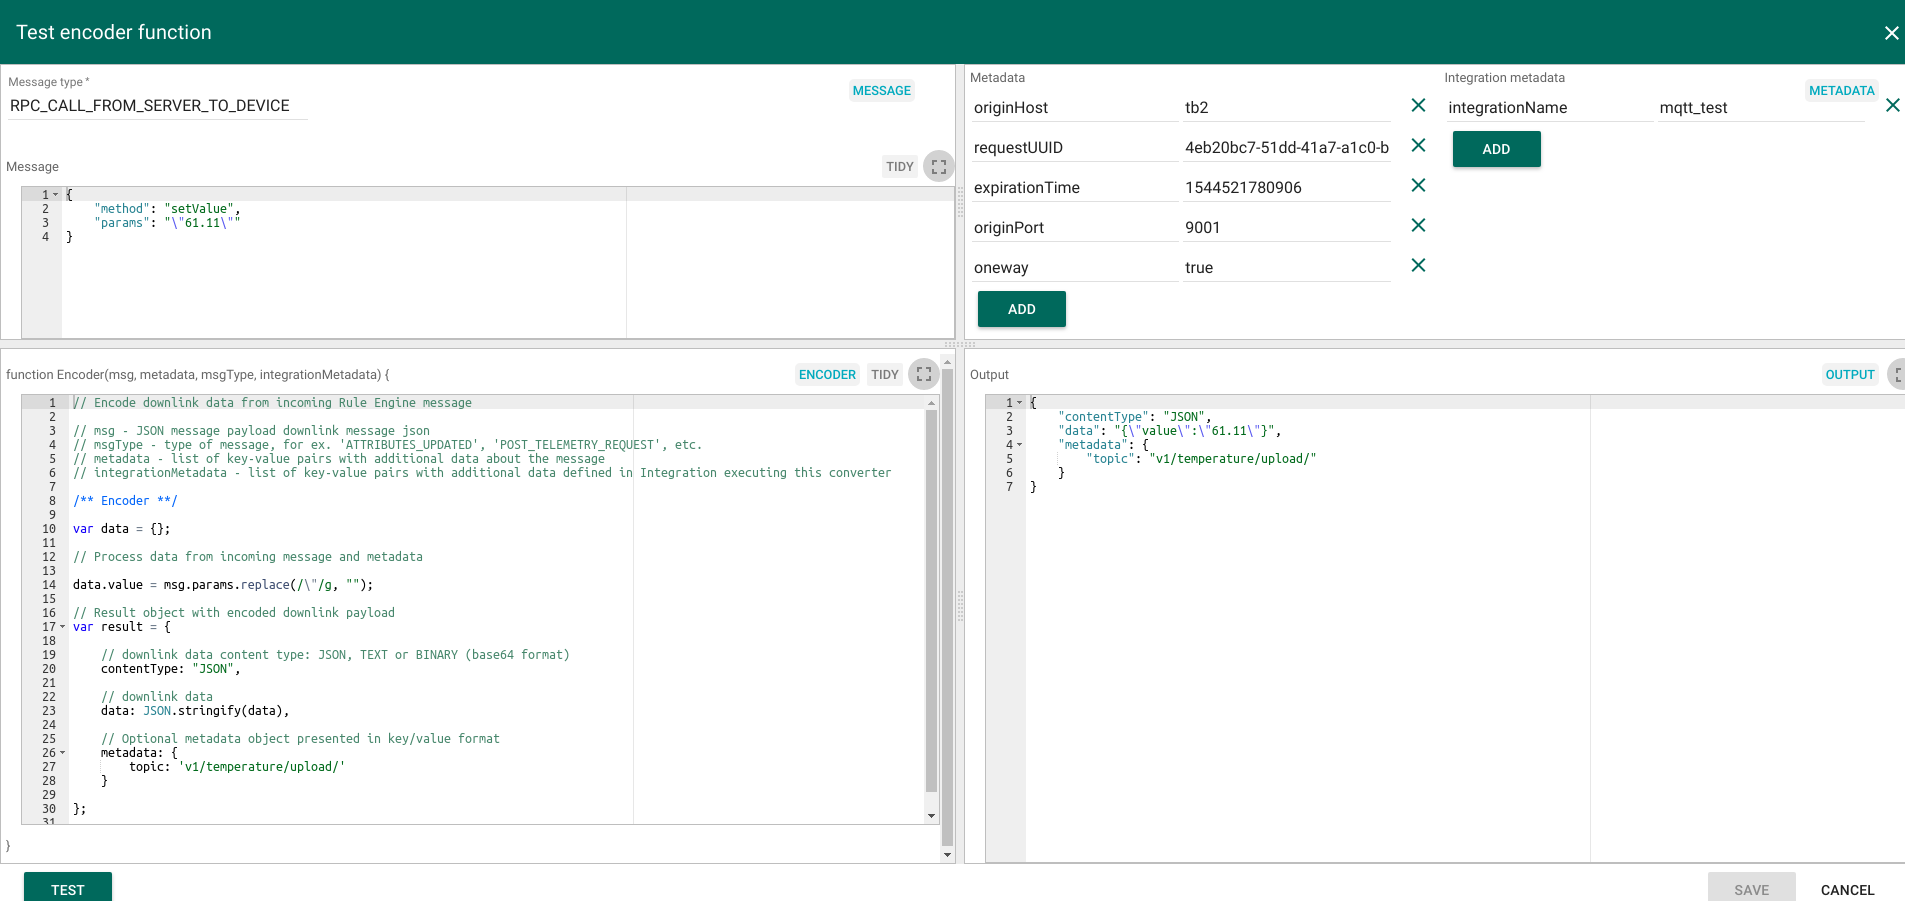
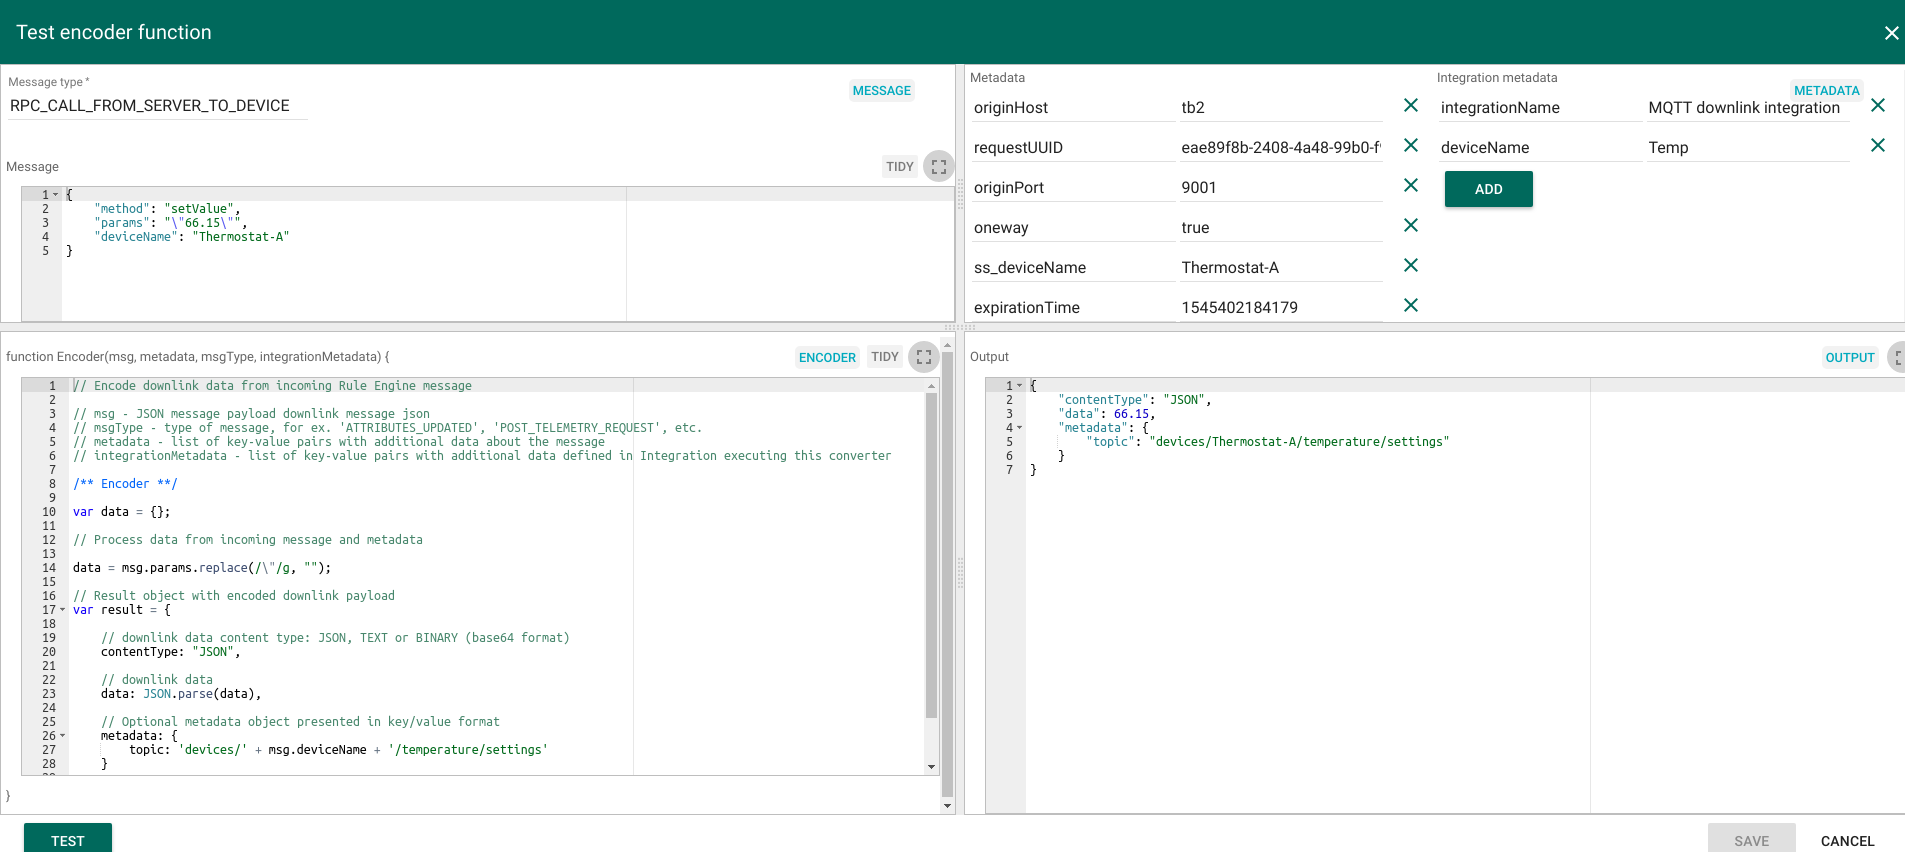
fixed images and converter files

diff --git a/docs/user-guide/resources/mqtt-downlink-downlink-converter.js b/docs/user-guide/resources/mqtt-downlink-downlink-converter.js
@@ -1,32 +1,9 @@
-// Encode downlink data from incoming Rule Engine message
-
-// msg - JSON message payload downlink message json
-// msgType - type of message, for ex. 'ATTRIBUTES_UPDATED', 'POST_TELEMETRY_REQUEST', etc.
-// metadata - list of key-value pairs with additional data about the message
-// integrationMetadata - list of key-value pairs with additional data defined in Integration executing this converter
-
-/** Encoder **/
-
-var data = {};
-
-// Process data from incoming message and metadata
-
-data.value = msg.params.replace(/\"/g, "");
-
-// Result object with encoded downlink payload
-var result = {
-
-    // downlink data content type: JSON, TEXT or BINARY (base64 format)
-    contentType: "JSON",
-
-    // downlink data
-    data: JSON.stringify(data),
-
-    // Optional metadata object presented in key/value format
-    metadata: {
-        topic: 'v1/temperature/upload/'
-    }
-
-};
-
-return result;
+{
+  "name": "Sensor Downlink Converter",
+  "type": "DOWNLINK",
+  "debugMode": true,
+  "configuration": {
+    "encoder": "// Encode downlink data from incoming Rule Engine message\n\n// msg - JSON message payload downlink message json\n// msgType - type of message, for ex. 'ATTRIBUTES_UPDATED', 'POST_TELEMETRY_REQUEST', etc.\n// metadata - list of key-value pairs with additional data about the message\n// integrationMetadata - list of key-value pairs with additional data defined in Integration executing this converter\n\n/** Encoder **/\n\nvar data = {};\n\n// Process data from incoming message and metadata\n\ndata = msg.params.replace(/\\\"/g, \"\");\n\n// Result object with encoded downlink payload\nvar result = {\n\n    // downlink data content type: JSON, TEXT or BINARY (base64 format)\n    contentType: \"JSON\",\n\n    // downlink data\n    data: JSON.parse(data),\n\n    // Optional metadata object presented in key/value format\n    metadata: {\n        topic: 'devices/' + msg.deviceName + '/temperature/settings'\n    }\n\n};\n\nreturn result;"
+  },
+  "additionalInfo": null
+}

diff --git a/docs/user-guide/resources/mqtt-downlink-uplink-converter.js b/docs/user-guide/resources/mqtt-downlink-uplink-converter.js
@@ -1,34 +1,9 @@
-// decode payload to string
-var payloadStr = decodeToString(payload);
-
-var deviceName = 'Device A';
-var deviceType = 'thermostat';
-
-var result = {
-   deviceName: deviceName,
-   deviceType: deviceType,
-   attributes: {
-       model: 'Model A',
-       serialNumber: 'SN111',
-       integrationName: metadata['integrationName']
-   },
-   telemetry: {
-       temperature: 42,
-       rawData: payloadStr
-   }
-};
-
-/** Helper functions **/
-
-function decodeToString(payload) {
-   return String.fromCharCode.apply(String, payload);
+{
+  "name": "Sensor Uplink Converter",
+  "type": "UPLINK",
+  "debugMode": true,
+  "configuration": {
+    "decoder": "// decode payload to string\n//var payloadStr = decodeToString(payload);\nvar payloadJson = decodeToJson(payload);\n\nvar result = {\n    attributes: {\n        integrationName: metadata.integrationName,\n        deviceName: payloadJson.deviceName,\n        deviceType: payloadJson.deviceType,\n    },\n    deviceName: payloadJson.deviceName,\n    deviceType: payloadJson.deviceType,\n    telemetry: []\n};\nvar telemetryObj = {\n    ts: payloadJson.timestamp,\n    values: {}\n};\n\ntelemetryObj.values.temperature = payloadJson.temperature;\nresult.telemetry.push(telemetryObj);\n\n/** Helper functions **/\n\nfunction decodeToString(payload) {\n    return String.fromCharCode.apply(String, payload);\n}\n\nfunction decodeToJson(payload) {\n    var str = decodeToString(payload);\n    var data = JSON.parse(str);\n    return data;\n}\n\nreturn result;"
+  },
+  "additionalInfo": null
 }
-
-function decodeToJson(payload) {
-   var str = decodeToString(payload);
-   var data = JSON.parse(str);
-   return data;
-}
-
-return result;
-

diff --git a/docs/user-guide/integrations/send-data-external-mqtt-brokers.md b/docs/user-guide/integrations/send-data-external-mqtt-brokers.md
@@ -63,10 +63,10 @@ In order for integration to pick up device name, it should be set as a server at
 In order for integration to work, Downlink and Uplink converters should be created.
 Uplink converter should look like this:
 
-![image](/images/user-guide/rule-engine-2-0/tutorials/mqtt-downlink/mqtt-downlink-uplink-converter.png)
+![image](/images/user-guide/rule-engine-2-0/tutorials/mqtt-downlink/mqtt-downlink-uplink-converter.png) 
 
 The full source code of javascript function used in converter is available
- [**here**](/docs/user-guide/resources/mqtt-downlink-uplink-converter.js).
+ [**here**](/docs/user-guide/resources/mqtt-downlink-uplink-converter.js). 
 
 Downlink converter should look like this:
 
@@ -162,7 +162,7 @@ In this section, we explain the purpose of each node in this tutorial.
     
    ! ![image](/images/user-guide/rule-engine-2-0/tutorials/mqtt-downlink/mqtt-downlink-node-C.png) 
 
-You can download and import attached json [**file**](/docs/user-guide/resources/mqtt-downlink-root-rule-chain.json) (should change chain)
+You can download and import attached json [**file**](/docs/user-guide/resources/mqtt-downlink-root-rule-chain.json) 
 with a rule chain for this tutorial.
 
     
